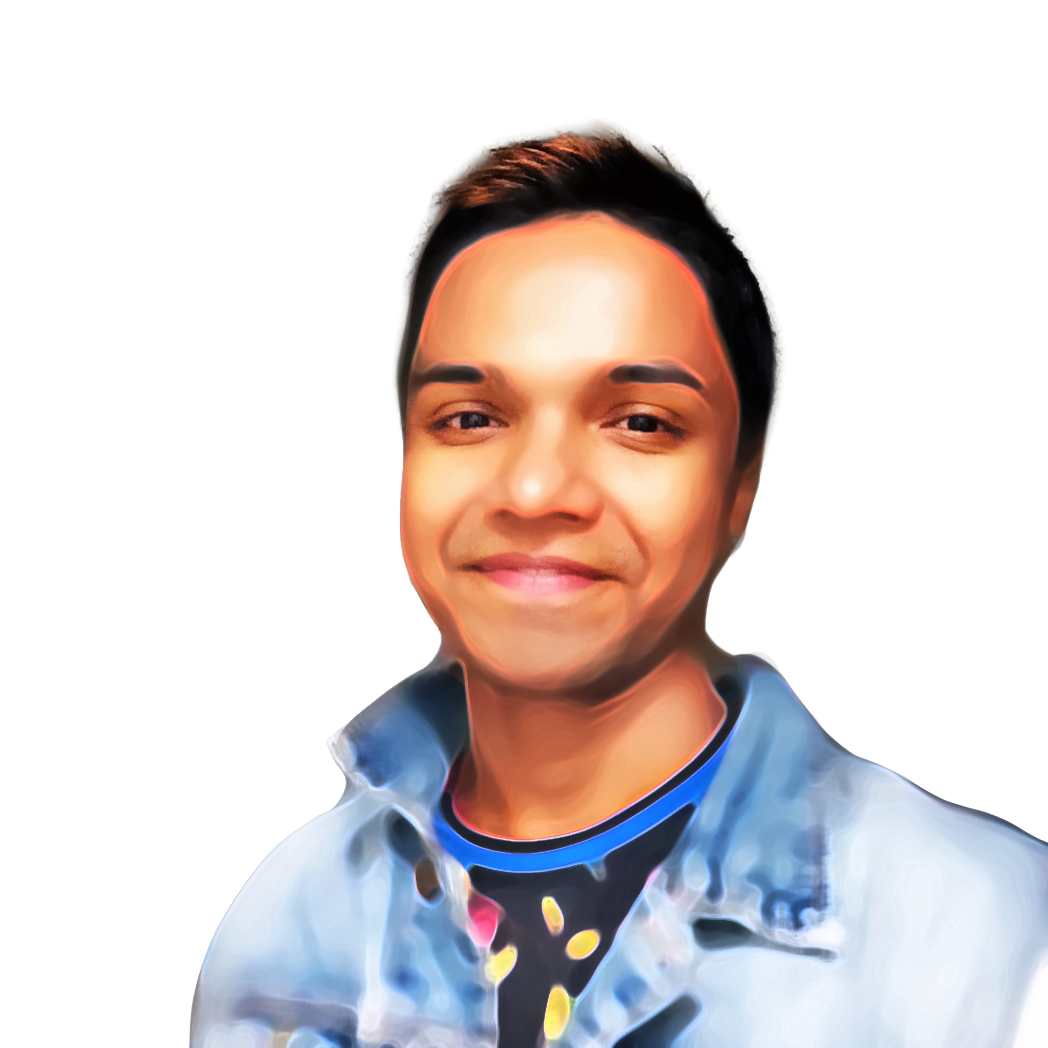
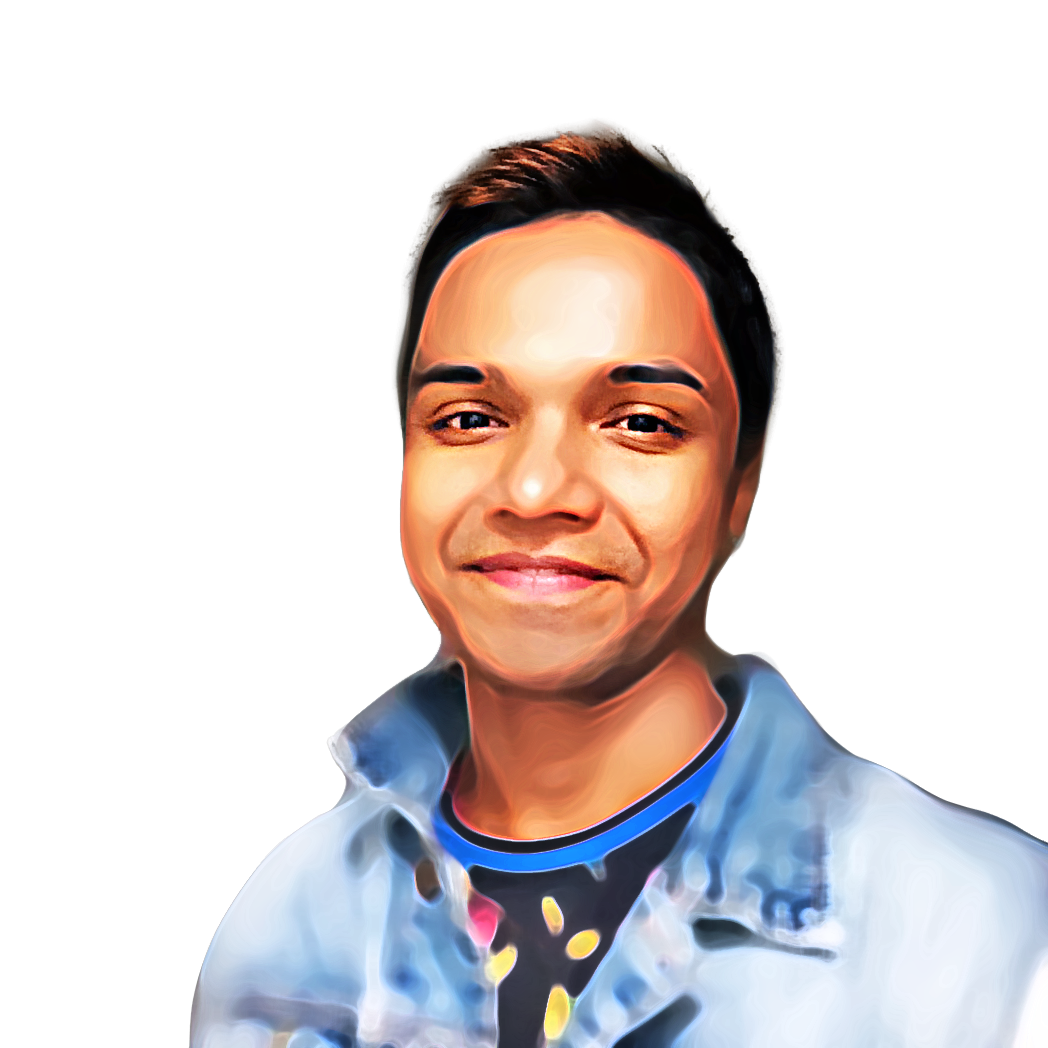
Tweaks

diff --git a/style.css b/style.css
@@ -43,23 +43,23 @@ body {
 @keyframes photoColor {
   0% {
     background-color: #009eff;
-    box-shadow: 2px 2px 1px 0px #009eff;
+    box-shadow: 2px 2px 3px 1px #009eff;
   }
   20% {
     background-color: #6ed31b;
-    box-shadow: 2px 2px 1px 0px #6ed31b;
+    box-shadow: 2px 2px 3px 1px #6ed31b;
   }
   40% {
     background-color: #ffcf00;
-    box-shadow: 2px 2px 1px 0px #ffcf00;
+    box-shadow: 2px 2px 3px 1px #ffcf00;
   }
   60% {
     background-color: #fd5757;
-    box-shadow: 2px 2px 1px 0px #fd5757;
+    box-shadow: 2px 2px 3px 1px #fd5757;
   }
   80% {
     background-color: #c526ff;
-    box-shadow: 2px 2px 1px 0px #c526ff;
+    box-shadow: 2px 2px 3px 1px #c526ff;
   }
 }
 
@@ -108,7 +108,7 @@ body {
 }
 
 #my-text {
-    margin-left: 20px;
+    margin: 0 0 0 20px;
 }
 
 #name {
@@ -134,7 +134,7 @@ body {
 
 .link {
     height: 100%;
-	display: inline-flex;
+    display: inline-flex;
     flex-direction: column;
     align-items: center;
     justify-content: space-between;
@@ -148,7 +148,7 @@ body {
 .link img {
     height: 70%;
     border-radius: 50%;
-	border: 2px solid white;
+    border: 2px solid white;
     box-shadow: 0px 0px 0px 0px rgb(103 197 255);
     animation: shadowColor 30s infinite ease-in-out;
     transition:  all 0.2s;
@@ -172,17 +172,44 @@ body {
 #my-photo {
     height: 100%;
     border-radius: 50%;
-    box-shadow: 2px 2px 1px 0px #009eff;
+    box-shadow: 2px 2px 3px 1px #009eff;
     background-color: #009eff;
     #border: 2px solid white;
     animation: photoColor 30s infinite ease-in-out;
 }
 
 
-@media only screen and (max-device-width: 700px) {
+@media only screen and (max-device-width: 700px) and (orientation:portrait) {
 
 body {
     font-size:  2.5em;
+}
+
+#my-card {
+    height: 25vh;
+    flex-direction:  column;
+    margin-bottom: 15vh;
+    text-align: center;
+}
+
+#my-text {
+    margin: 20px 0 0 0;
+}
+
+}
+
+@media only screen and (max-device-width: 700px) and (orientation:landscape) {
+
+body {
+    font-size:  1.8em;
+}
+
+#my-card {
+    height:  25vh;
+}
+
+#links {
+    height:  20vh;
 }
 
 }
